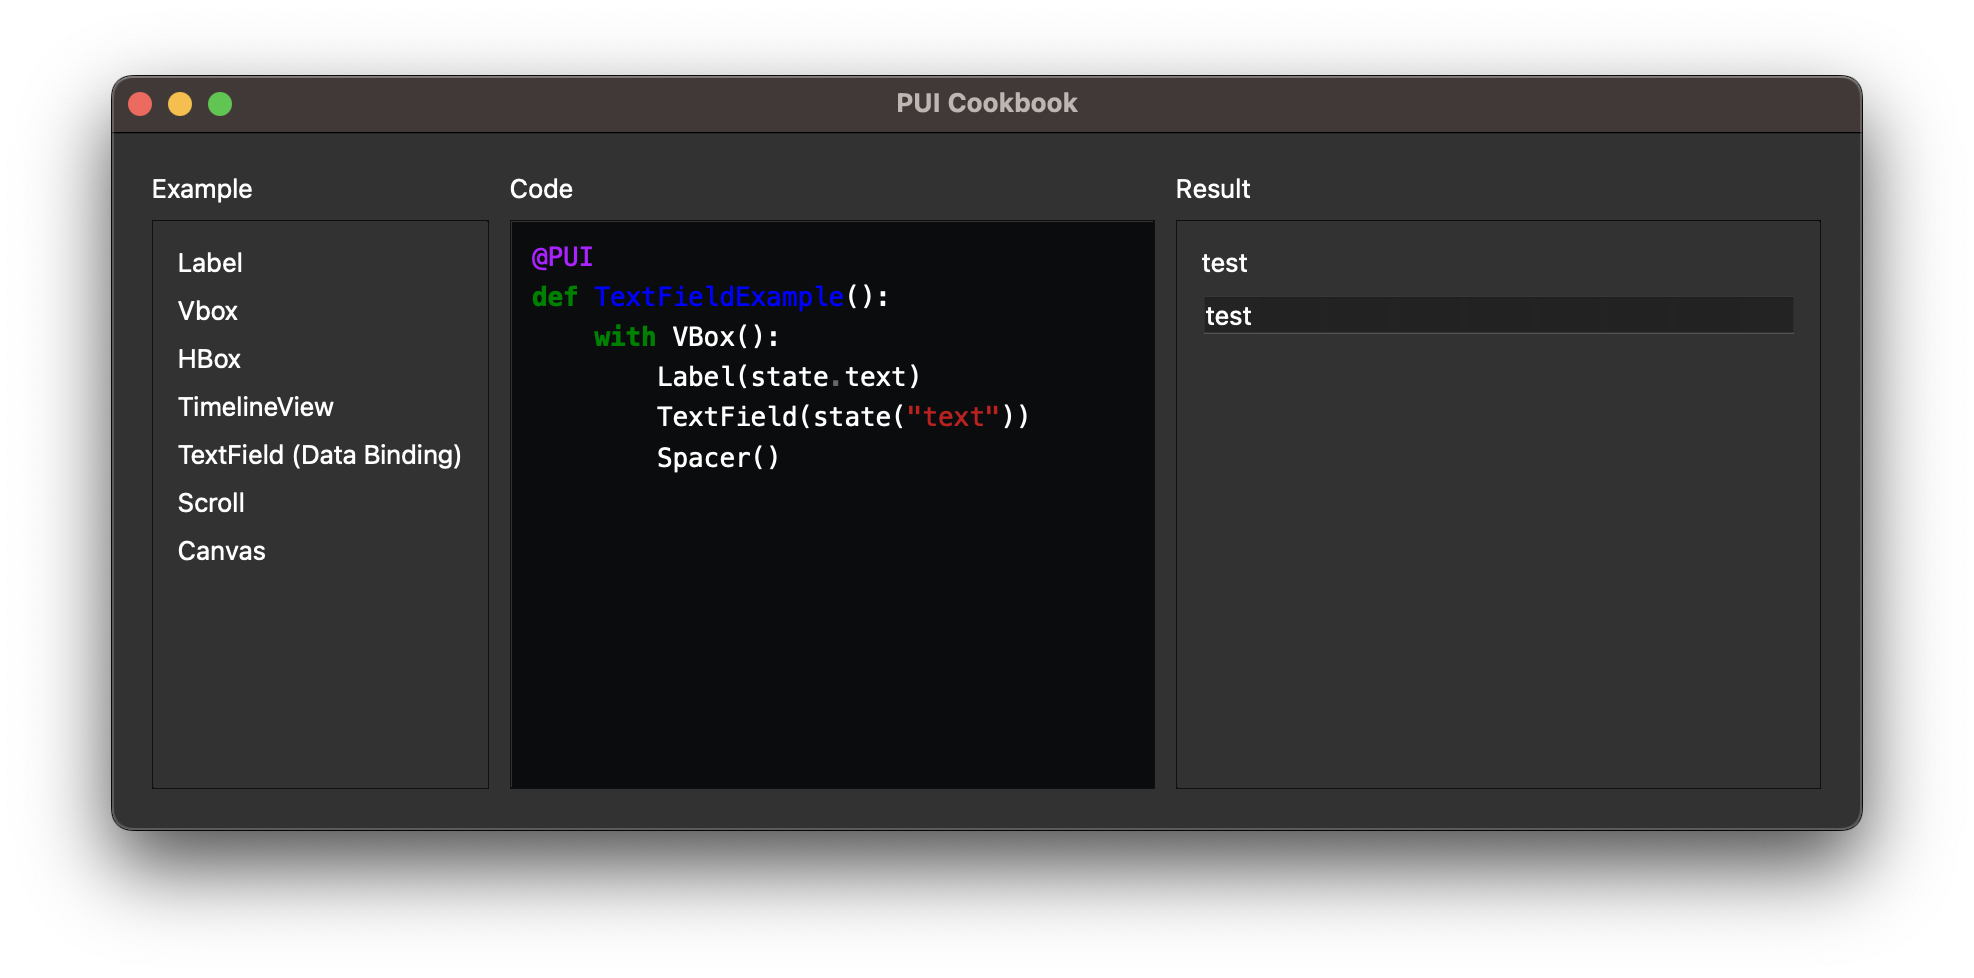
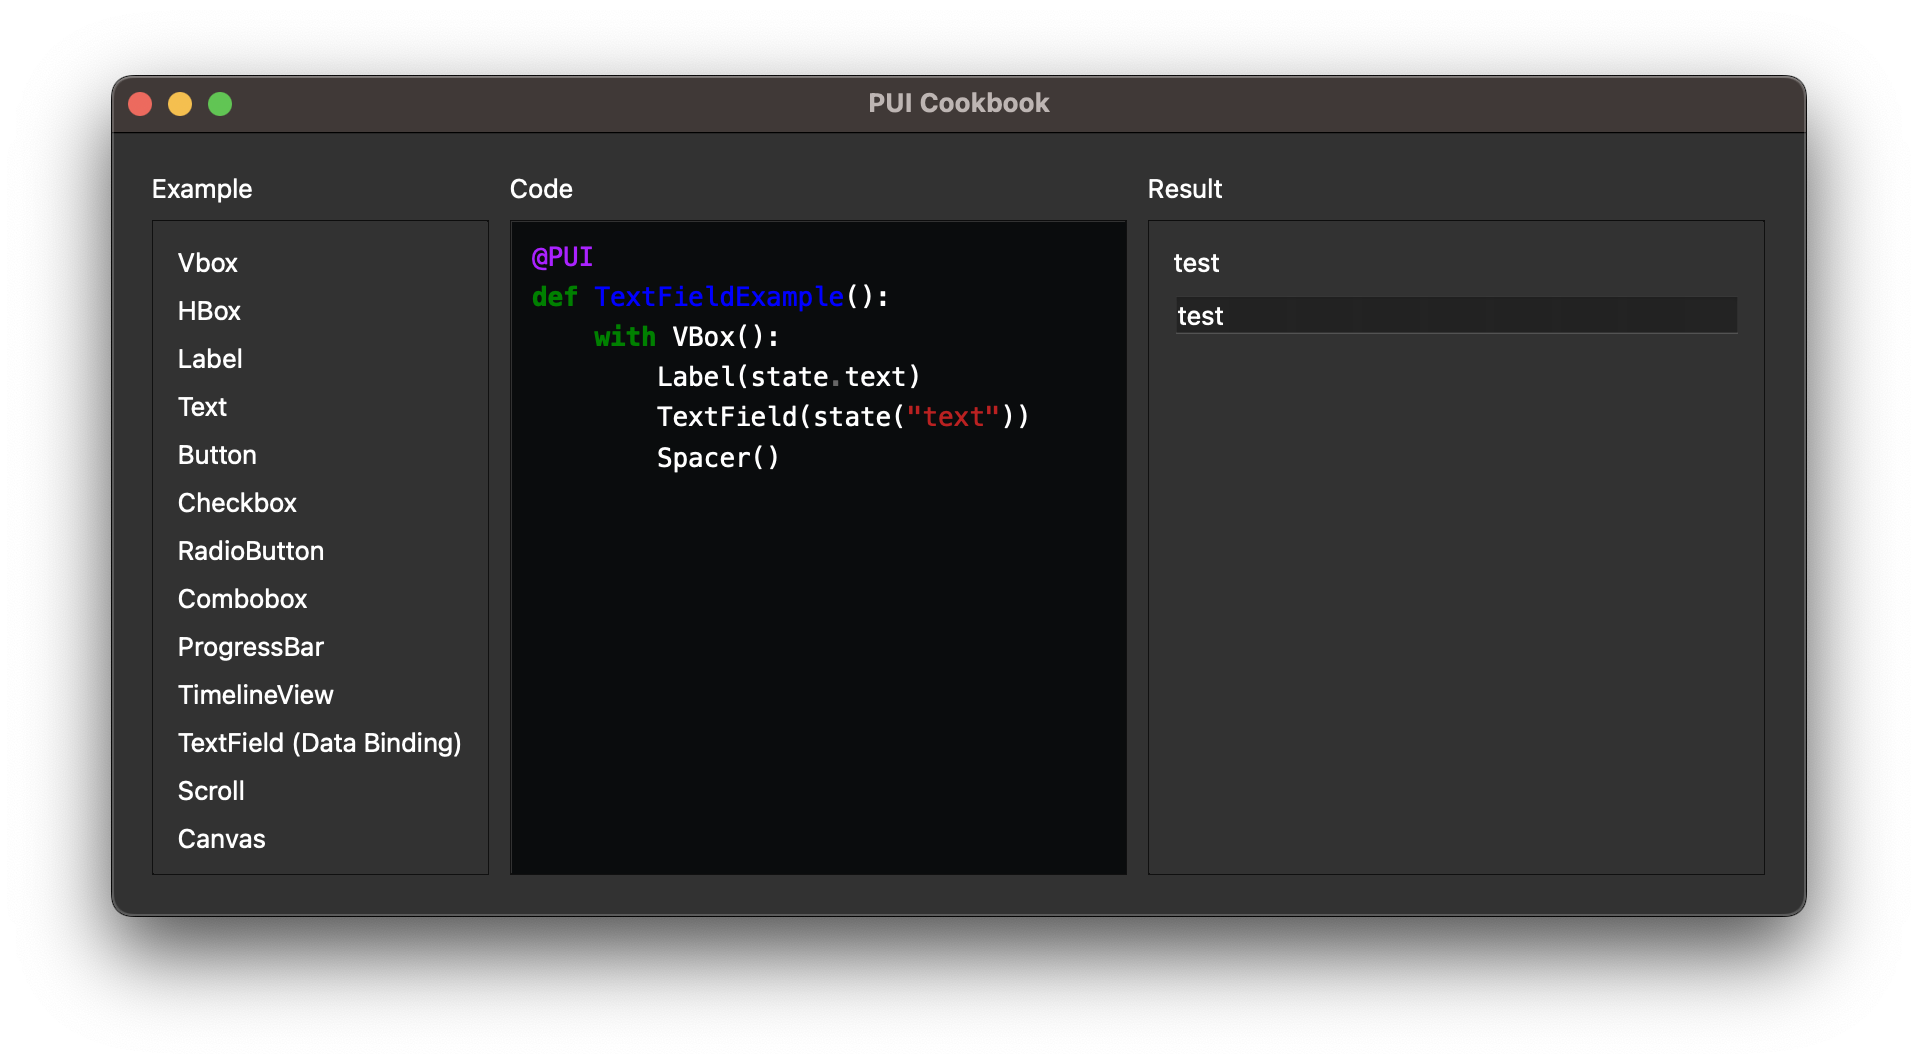
readme: update cookbook screenshots with pyside6/textual backends

Changed region(s): [[0.0308, 0.0613, 0.9536, 0.8589], [0.0923, 0.7362, 0.1538, 0.7975]]

diff --git a/README.md b/README.md
@@ -141,10 +141,13 @@ root.run()
 ![Canvas](https://github.com/buganini/PUI/raw/main/screenshots/pyside6_canvas.gif)
 
 ## Cookbook
-`python -m cookbook` (requires pygments for syntax highlight)
+`python -m cookbook PySide6` (requires pygments for syntax highlight)
 
 ![Cookbook 1](https://github.com/buganini/PUI/raw/main/screenshots/cookbook1.png)
 ![Cookbook 2](https://github.com/buganini/PUI/raw/main/screenshots/cookbook2.png)
+
+`python -m cookbook textual`
+![Cookbook textual](https://github.com/buganini/PUI/raw/main/screenshots/cookbook_textual.png)
 
 # Backends
 ## Tier-1
